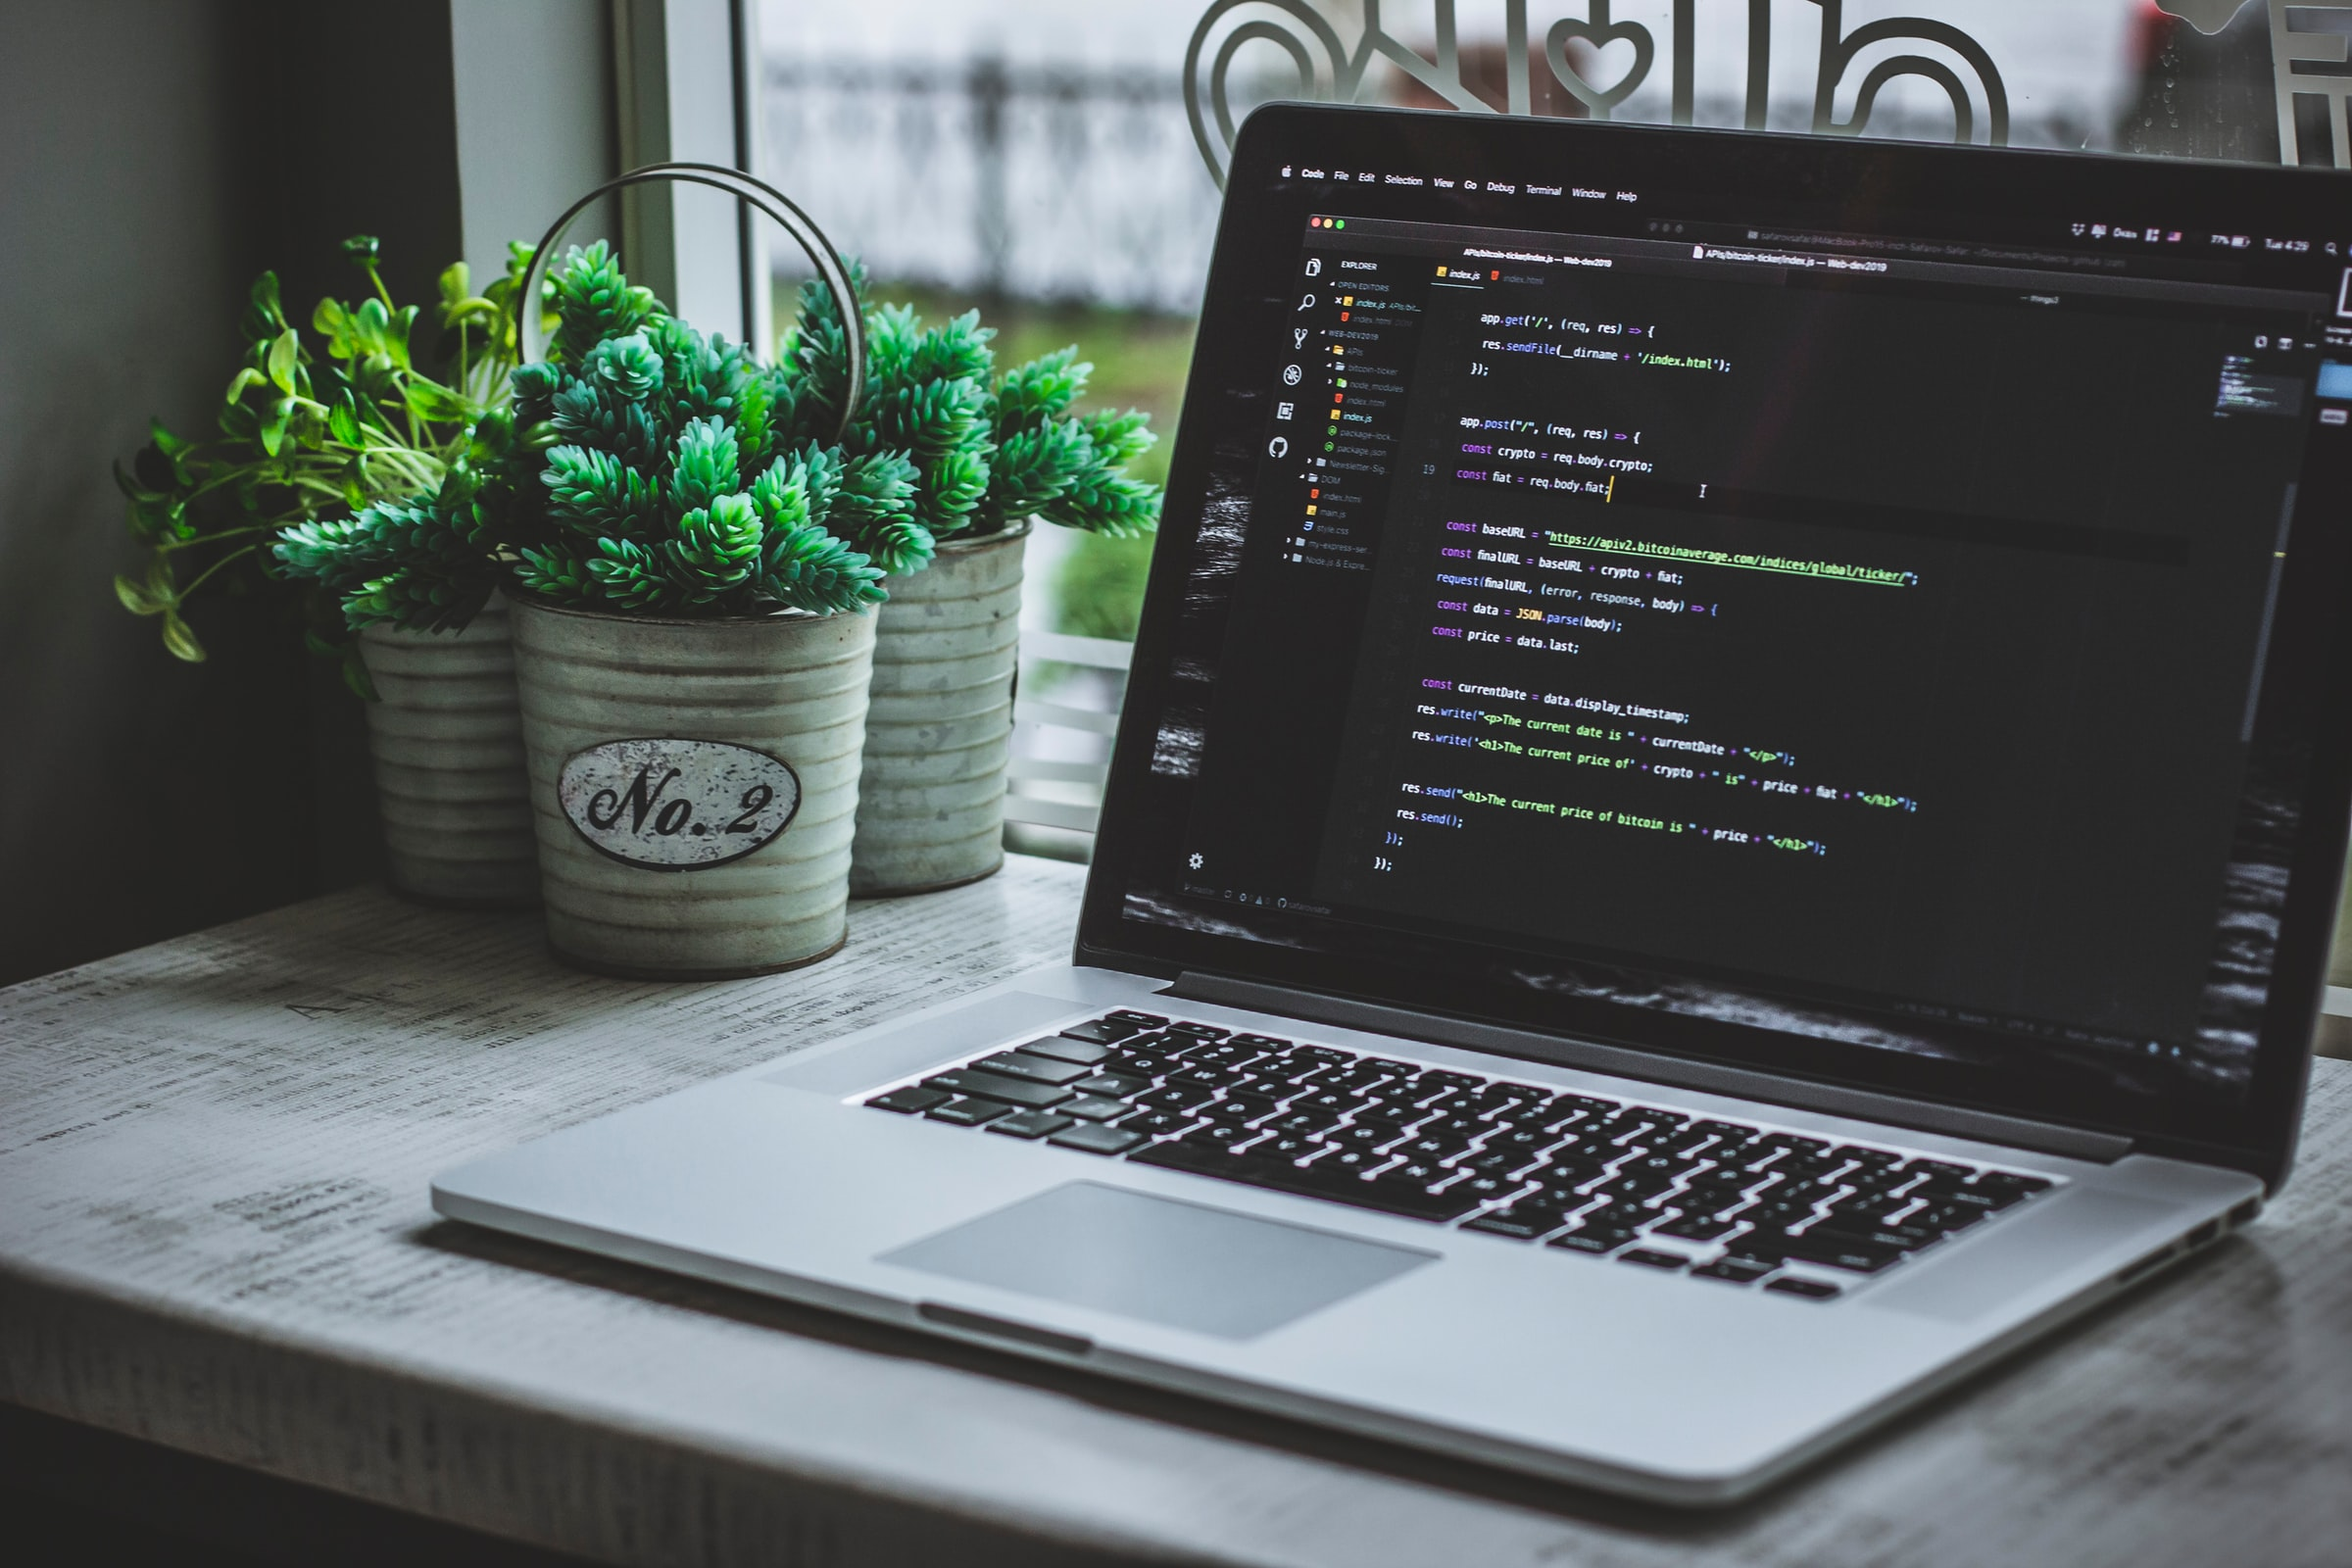
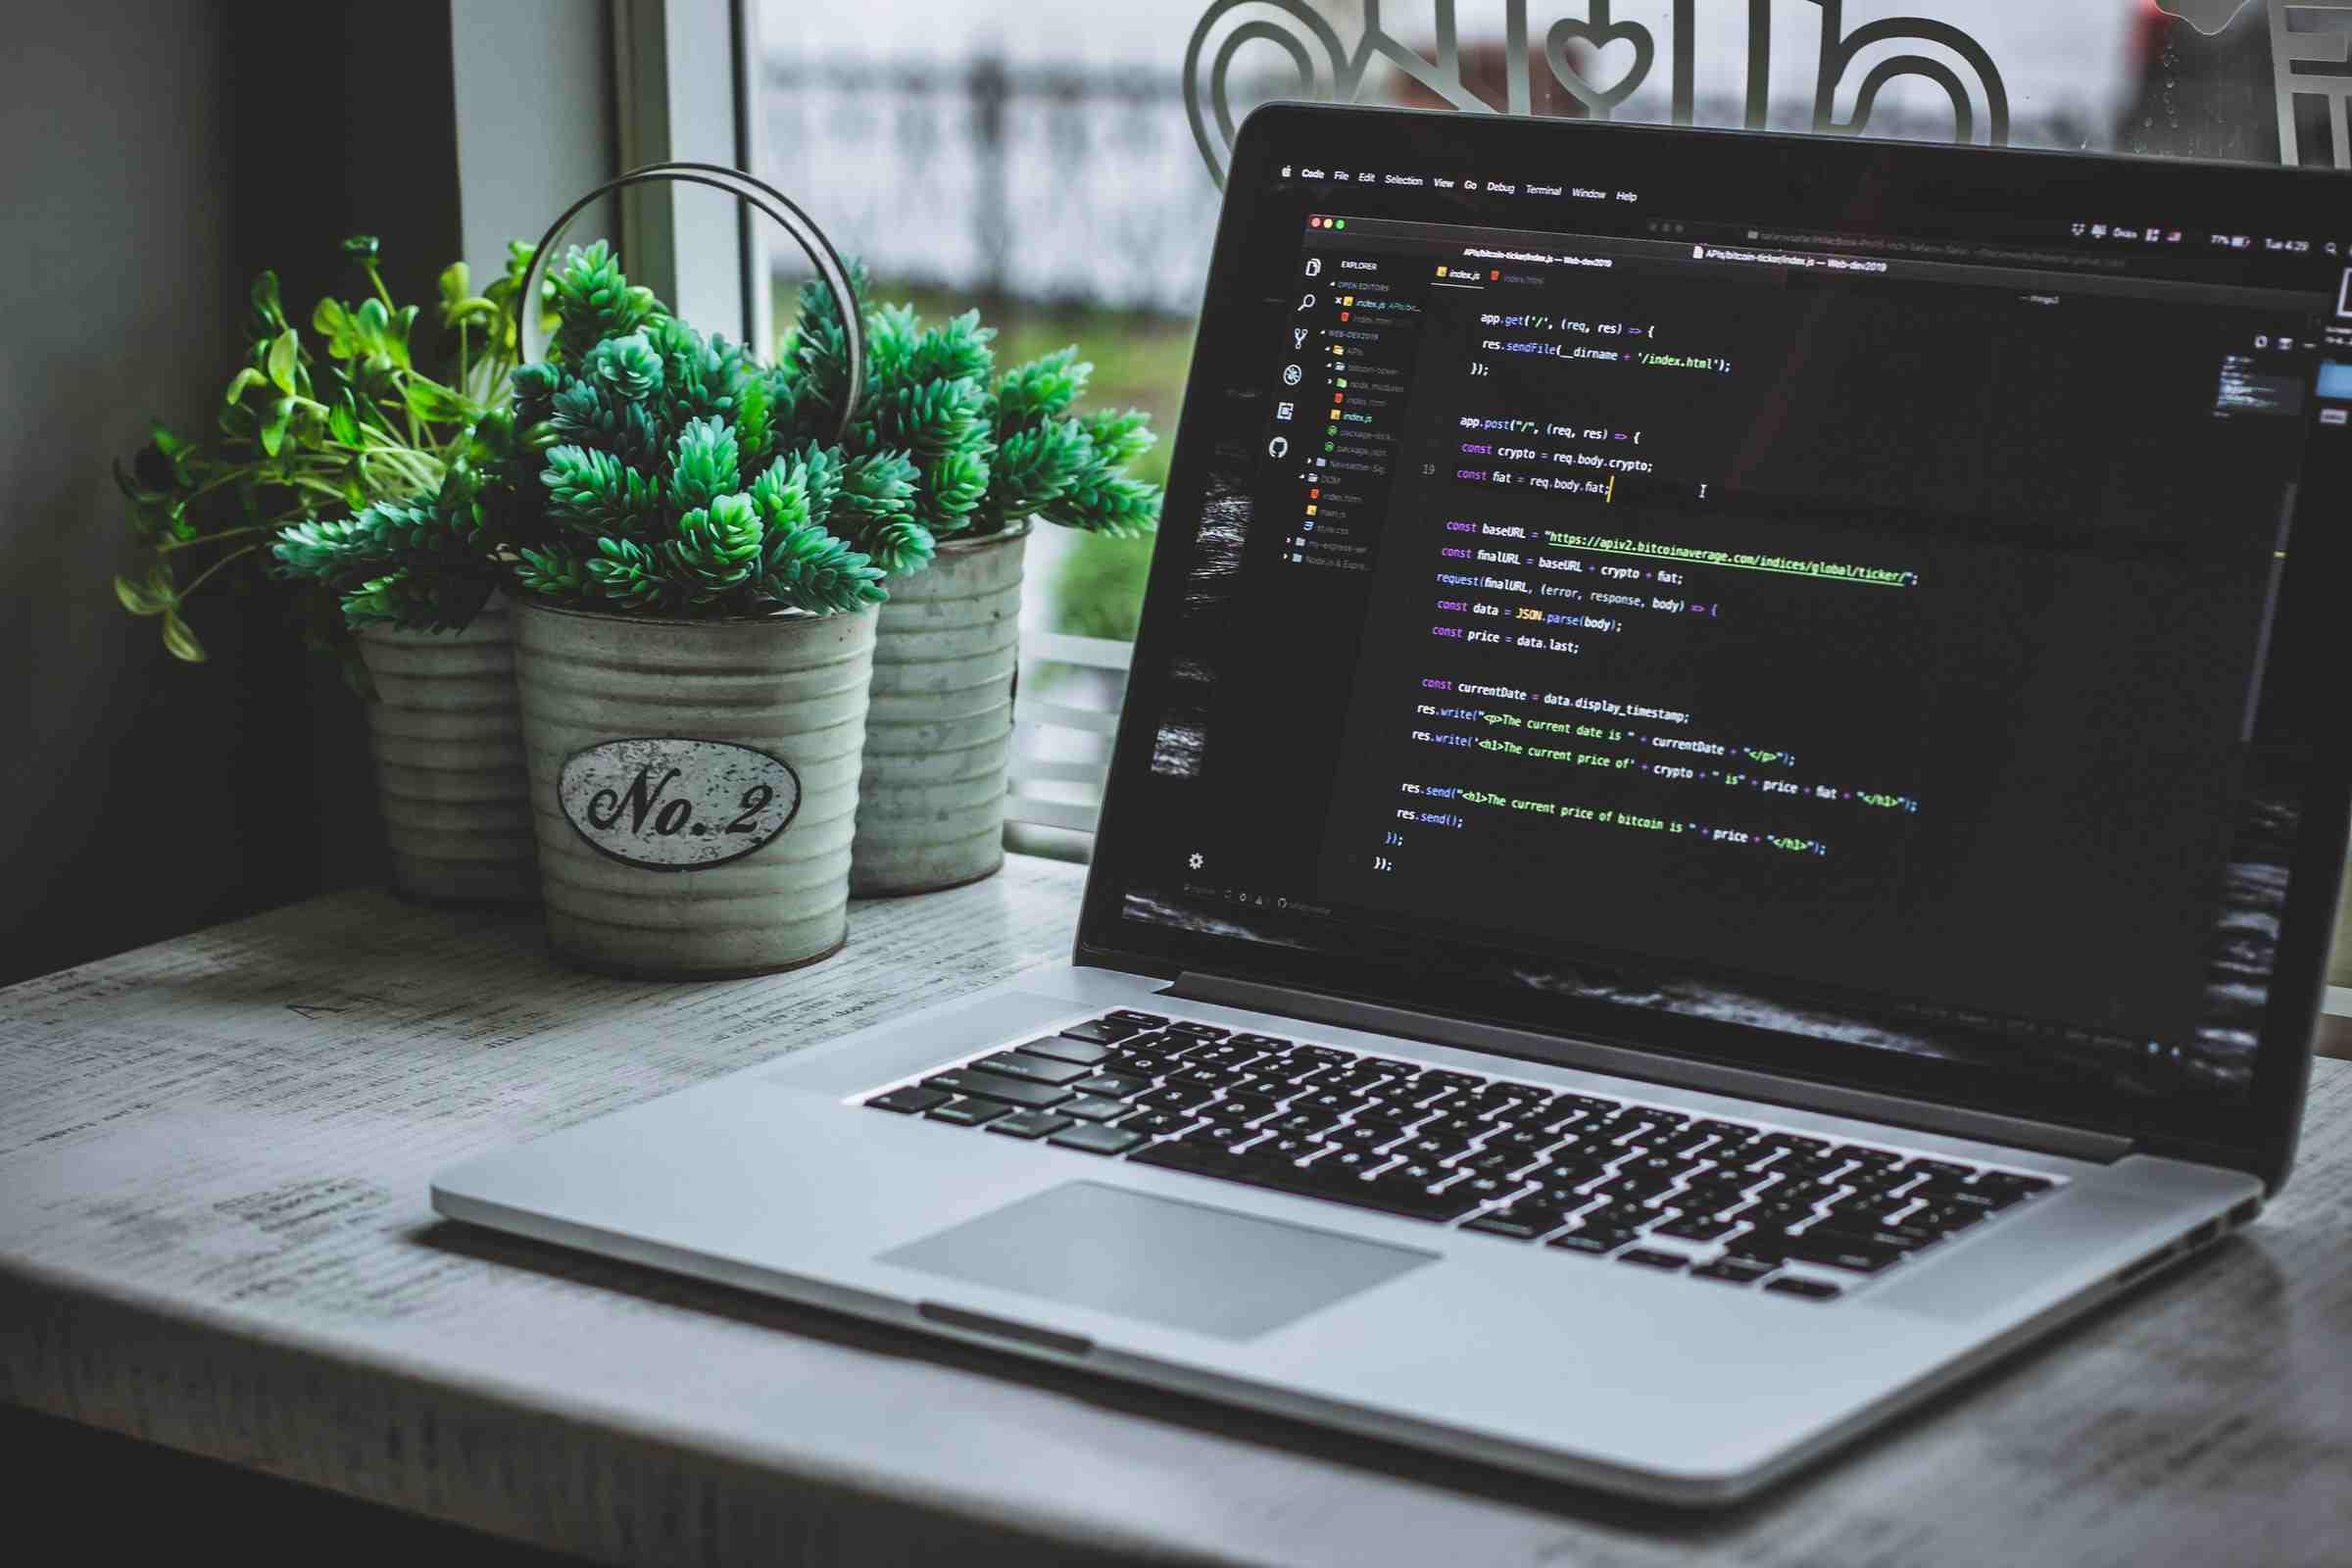
Image Size Reduced

Changed region(s): [[0.625, 0.2812, 0.6562, 0.3125], [0.5938, 0.5, 0.625, 0.5312], [0.3125, 0.3125, 0.3438, 0.3438]]

diff --git a/index.html b/index.html
@@ -2,7 +2,7 @@
 <html>
 <head>
 	<title>Sourab Banka</title>
-	<link rel="shortcut icon" href="./img/favicon.png" type="image/png">
+	<link rel="shortcut icon" href="./img/favicon.jpg" type="image/png">
 
 	<meta name="viewport" content="width=device-width, initial-scale=1">
 
@@ -52,7 +52,7 @@
 
 	<nav id="navigation" class="mb-1 navbar navbar-expand-lg navbar-dark secondary-color lighten-1">
 		<a class="navbar-brand" href="#">
-			<img src="./img/favicon.png" class="myIcon rounded-circle z-depth-0" alt="avatar image">
+			<img src="./img/about.jpg" class="myIcon rounded-circle z-depth-0" alt="avatar image">
 		</a>
 		<button class="navbar-toggler" type="button" data-toggle="collapse" data-target="#navbarSupportedContent-555"
 		aria-controls="navbarSupportedContent-555" aria-expanded="false" aria-label="Toggle navigation">
@@ -360,13 +360,13 @@
 
 			<div class="row projectItems">
 				<div class="apps col-sm-6 col-md-4 col-lg-3 animate-box" data-animate-effect="fadeInLeft">
-					<div class="project" style="background-image: url(img/portfolio/Apps/Robbery.png);">
+					<div class="project" style="background-image: url(img/portfolio/Apps/Robbery.jpg);">
 						<div class="desc">
 							<div class="con">
 								<h3><a href="https://drive.google.com/file/d/1IxlGymqZNfHKW4ILyzy0SjYDcd-IOuc1/view">Android App</a></h3>
 								<span>An Android Appliction that shows the Crime Hotspots in Mumbai City</span>
 								<p class="icon">
-									<span><a href="img/portfolio/Apps/Robbery.png" title="View image" class="openButton" data-fancybox data-caption="An Android Appliction that shows the Crime Hotspots in Mumbai City"><i class="fas fa-expand-arrows-alt"></i></a></span>
+									<span><a href="img/portfolio/Apps/Robbery.jpg" title="View image" class="openButton" data-fancybox data-caption="An Android Appliction that shows the Crime Hotspots in Mumbai City"><i class="fas fa-expand-arrows-alt"></i></a></span>
 									<span><a href="https://drive.google.com/file/d/1IxlGymqZNfHKW4ILyzy0SjYDcd-IOuc1/view"><i class="fas fa-link"></i></a></span>
 								</p>
 							</div>
@@ -402,13 +402,13 @@
 					</div>
 				</div>
 				<div class="apps col-sm-6 col-md-4 col-lg-3 animate-box" data-animate-effect="fadeInBottom">
-					<div class="project" style="background-image: url(img/portfolio/Apps/SafetyCalculator_Result.png);">
+					<div class="project" style="background-image: url(img/portfolio/Apps/SafetyCalculator_Result.jpg);">
 						<div class="desc">
 							<div class="con">
 								<h3><a href="https://drive.google.com/file/d/1IxlGymqZNfHKW4ILyzy0SjYDcd-IOuc1/view">Android Appliction</a></h3>
 								<span>An Android Appliction that predicts the Safety Score of different locations in Mumbai City</span>
 								<p class="icon">
-									<span><a href="img/portfolio/Apps/SafetyCalculator_Result.png" title="View image" class="openButton" data-fancybox data-caption="An Android Appliction that predicts the Safety Score of different locations in Mumbai City"><i class="fas fa-expand-arrows-alt"></i></a></span>
+									<span><a href="img/portfolio/Apps/SafetyCalculator_Result.jpg" title="View image" class="openButton" data-fancybox data-caption="An Android Appliction that predicts the Safety Score of different locations in Mumbai City"><i class="fas fa-expand-arrows-alt"></i></a></span>
 									<span><a href="https://drive.google.com/file/d/1IxlGymqZNfHKW4ILyzy0SjYDcd-IOuc1/view"><i class="fas fa-link"></i></a></span>
 								</p>
 							</div>
@@ -416,13 +416,13 @@
 					</div>
 				</div>
 				<div class="apps col-sm-6 col-md-4 col-lg-3 animate-box" data-animate-effect="fadeInLeft">
-					<div class="project" style="background-image: url(img/portfolio/Apps/SelectStars.png);">
+					<div class="project" style="background-image: url(img/portfolio/Apps/SelectStars.jpg);">
 						<div class="desc">
 							<div class="con">
 								<h3><a href="https://drive.google.com/file/d/1IxlGymqZNfHKW4ILyzy0SjYDcd-IOuc1/view">Android Appliction</a></h3>
 								<span>An Android Appliction that an user can use to rate a particular location in Mumbai City</span>
 								<p class="icon">
-									<span><a href="img/portfolio/Apps/SelectStars.png" title="View image" class="openButton" data-fancybox data-caption="An Android Appliction that an user can use to rate a particular location in Mumbai City"><i class="fas fa-expand-arrows-alt"></i></a></span>
+									<span><a href="img/portfolio/Apps/SelectStars.jpg" title="View image" class="openButton" data-fancybox data-caption="An Android Appliction that an user can use to rate a particular location in Mumbai City"><i class="fas fa-expand-arrows-alt"></i></a></span>
 									<span><a href="https://drive.google.com/file/d/1IxlGymqZNfHKW4ILyzy0SjYDcd-IOuc1/view"><i class="fas fa-link"></i></a></span>
 								</p>
 							</div>
@@ -430,13 +430,13 @@
 					</div>
 				</div>
 				<div class="websites col-sm-6 col-md-4 col-lg-3 animate-box" data-animate-effect="fadeInRight">
-					<div class="project" style="background-image: url(img/portfolio/Websites/Choropleth.PNG);">
+					<div class="project" style="background-image: url(img/portfolio/Websites/Choropleth.jpg);">
 						<div class="desc">
 							<div class="con">
 								<h3><a href="https://codepen.io/sourabbanka22/full/zYvORmO">Web Appliction</a></h3>
 								<span>A Choropleth Map Web Appliction created using HTML, CSS, JavaScript and D3.js</span>
 								<p class="icon">
-									<span><a href="img/portfolio/Websites/Choropleth.PNG" title="View image" class="openButton" data-fancybox data-caption="A Choropleth Map Web Appliction created using HTML, CSS, JavaScript and D3.js"><i class="fas fa-expand-arrows-alt"></i></a></span>
+									<span><a href="img/portfolio/Websites/Choropleth.jpg" title="View image" class="openButton" data-fancybox data-caption="A Choropleth Map Web Appliction created using HTML, CSS, JavaScript and D3.js"><i class="fas fa-expand-arrows-alt"></i></a></span>
 									<span><a href="https://codepen.io/sourabbanka22/full/zYvORmO"><i class="fas fa-link"></i></a></span>
 								</p>
 							</div>
@@ -458,13 +458,13 @@
 					</div>
 				</div>
 				<div class="websites col-sm-6 col-md-4 col-lg-3 animate-box" data-animate-effect="fadeInRight">
-					<div class="project" style="background-image: url(img/portfolio/Websites/Heat_Map.PNG);">
+					<div class="project" style="background-image: url(img/portfolio/Websites/Heat_Map.jpg);">
 						<div class="desc">
 							<div class="con">
 								<h3><a href="https://codepen.io/sourabbanka22/full/LYpPQMZ">Web Appliction</a></h3>
 								<span>A Heat Map Web Appliction created using HTML, CSS, JavaScript and D3.js</span>
 								<p class="icon">
-									<span><a href="img/portfolio/Websites/Heat_Map.PNG" title="View image" class="openButton" data-fancybox data-caption="A Heat Map Web Appliction created using HTML, CSS, JavaScript and D3.js"><i class="fas fa-expand-arrows-alt"></i></a></span>
+									<span><a href="img/portfolio/Websites/Heat_Map.jpg" title="View image" class="openButton" data-fancybox data-caption="A Heat Map Web Appliction created using HTML, CSS, JavaScript and D3.js"><i class="fas fa-expand-arrows-alt"></i></a></span>
 									<span><a href="https://codepen.io/sourabbanka22/full/LYpPQMZ"><i class="fas fa-link"></i></a></span>
 								</p>
 							</div>
@@ -486,13 +486,13 @@
 					</div>
 				</div>
 				<div class="websites col-sm-6 col-md-4 col-lg-3 animate-box" data-animate-effect="fadeInRight">
-					<div class="project" style="background-image: url(img/portfolio/Websites/MarkDown_Previewer.PNG);">
+					<div class="project" style="background-image: url(img/portfolio/Websites/MarkDown_Previewer.jpg);">
 						<div class="desc">
 							<div class="con">
 								<h3><a href="https://stupefied-hermann-a7a872.netlify.app/">Web Appliction</a></h3>
 								<span>A Markdown Previewer Web Appliction built using React.js</span>
 								<p class="icon">
-									<span><a href="img/portfolio/Websites/MarkDown_Previewer.PNG" title="View image" class="openButton" data-fancybox data-caption="A Markdown Previewer Web Appliction built using React.js"><i class="fas fa-expand-arrows-alt"></i></a></span>
+									<span><a href="img/portfolio/Websites/MarkDown_Previewer.jpg" title="View image" class="openButton" data-fancybox data-caption="A Markdown Previewer Web Appliction built using React.js"><i class="fas fa-expand-arrows-alt"></i></a></span>
 									<span><a href="https://stupefied-hermann-a7a872.netlify.app/"><i class="fas fa-link"></i></a></span>
 								</p>
 							</div>
@@ -528,13 +528,13 @@
 					</div>
 				</div>
 				<div class="websites col-sm-6 col-md-4 col-lg-3 animate-box" data-animate-effect="fadeInRight">
-					<div class="project" style="background-image: url(img/portfolio/Websites/onlineHealthCare.PNG);">
+					<div class="project" style="background-image: url(img/portfolio/Websites/onlineHealthCare.jpg);">
 						<div class="desc">
 							<div class="con">
 								<h3><a href="https://sourab-onlinehealthcare.herokuapp.com/">Work 06</a></h3>
 								<span>A Cloud Based Heart Disease Predictor which can be used to check whether a person's Heart is Healthy or not It also can be used to chat with a Doctor in RealTime to ask for remedies and treatment.</span>
 								<p class="icon">
-									<span><a href="img/portfolio/Websites/onlineHealthCare.PNG" title="View image" class="openButton" data-fancybox data-caption="A Cloud Based Heart Disease Predictor which can be used to check whether a person's Heart is Healthy or not It also can be used to chat with a Doctor in RealTime to ask for remedies and treatment."><i class="fas fa-expand-arrows-alt"></i></a></span>
+									<span><a href="img/portfolio/Websites/onlineHealthCare.jpg" title="View image" class="openButton" data-fancybox data-caption="A Cloud Based Heart Disease Predictor which can be used to check whether a person's Heart is Healthy or not It also can be used to chat with a Doctor in RealTime to ask for remedies and treatment."><i class="fas fa-expand-arrows-alt"></i></a></span>
 									<span><a href="https://sourab-onlinehealthcare.herokuapp.com/"><i class="fas fa-link"></i></a></span>
 								</p>
 							</div>
@@ -542,13 +542,13 @@
 					</div>
 				</div>
 				<div class="websites col-sm-6 col-md-4 col-lg-3 animate-box" data-animate-effect="fadeInRight">
-					<div class="project" style="background-image: url(img/portfolio/Websites/PomodoroClock.PNG);">
+					<div class="project" style="background-image: url(img/portfolio/Websites/PomodoroClock.jpg);">
 						<div class="desc">
 							<div class="con">
 								<h3><a href="https://kind-lamarr-d70ae0.netlify.app/">Web Appliction</a></h3>
 								<span>A Pomodoro Clock Web Appliction built using React.js</span>
 								<p class="icon">
-									<span><a href="img/portfolio/Websites/PomodoroClock.PNG" title="View image" class="openButton" data-fancybox data-caption="A Pomodoro Clock Web Appliction built using React.js"><i class="fas fa-link"></i></a></span>
+									<span><a href="img/portfolio/Websites/PomodoroClock.jpg" title="View image" class="openButton" data-fancybox data-caption="A Pomodoro Clock Web Appliction built using React.js"><i class="fas fa-link"></i></a></span>
 									<span><a href="https://kind-lamarr-d70ae0.netlify.app/"><i class="fas fa-expand-arrows-alt"></i></a></span>
 								</p>
 							</div>
@@ -556,13 +556,13 @@
 					</div>
 				</div>
 				<div class="websites col-sm-6 col-md-4 col-lg-3 animate-box" data-animate-effect="fadeInRight">
-					<div class="project" style="background-image: url(img/portfolio/Websites/RandomQuoteMachine.PNG);">
+					<div class="project" style="background-image: url(img/portfolio/Websites/RandomQuoteMachine.jpg);">
 						<div class="desc">
 							<div class="con">
 								<h3><a href="https://sharp-ptolemy-f559e8.netlify.app/">Web Appliction</a></h3>
 								<span>A Random Quote Machine Web Appliction built using React.js</span>
 								<p class="icon">
-									<span><a href="img/portfolio/Websites/RandomQuoteMachine.PNG" title="View image" class="openButton" data-fancybox data-caption="A Random Quote Machine Web Appliction built using React.js"><i class="fas fa-expand-arrows-alt"></i></a></span>
+									<span><a href="img/portfolio/Websites/RandomQuoteMachine.jpg" title="View image" class="openButton" data-fancybox data-caption="A Random Quote Machine Web Appliction built using React.js"><i class="fas fa-expand-arrows-alt"></i></a></span>
 									<span><a href="https://sharp-ptolemy-f559e8.netlify.app/"><i class="fas fa-link"></i></a></span>
 								</p>
 							</div>
